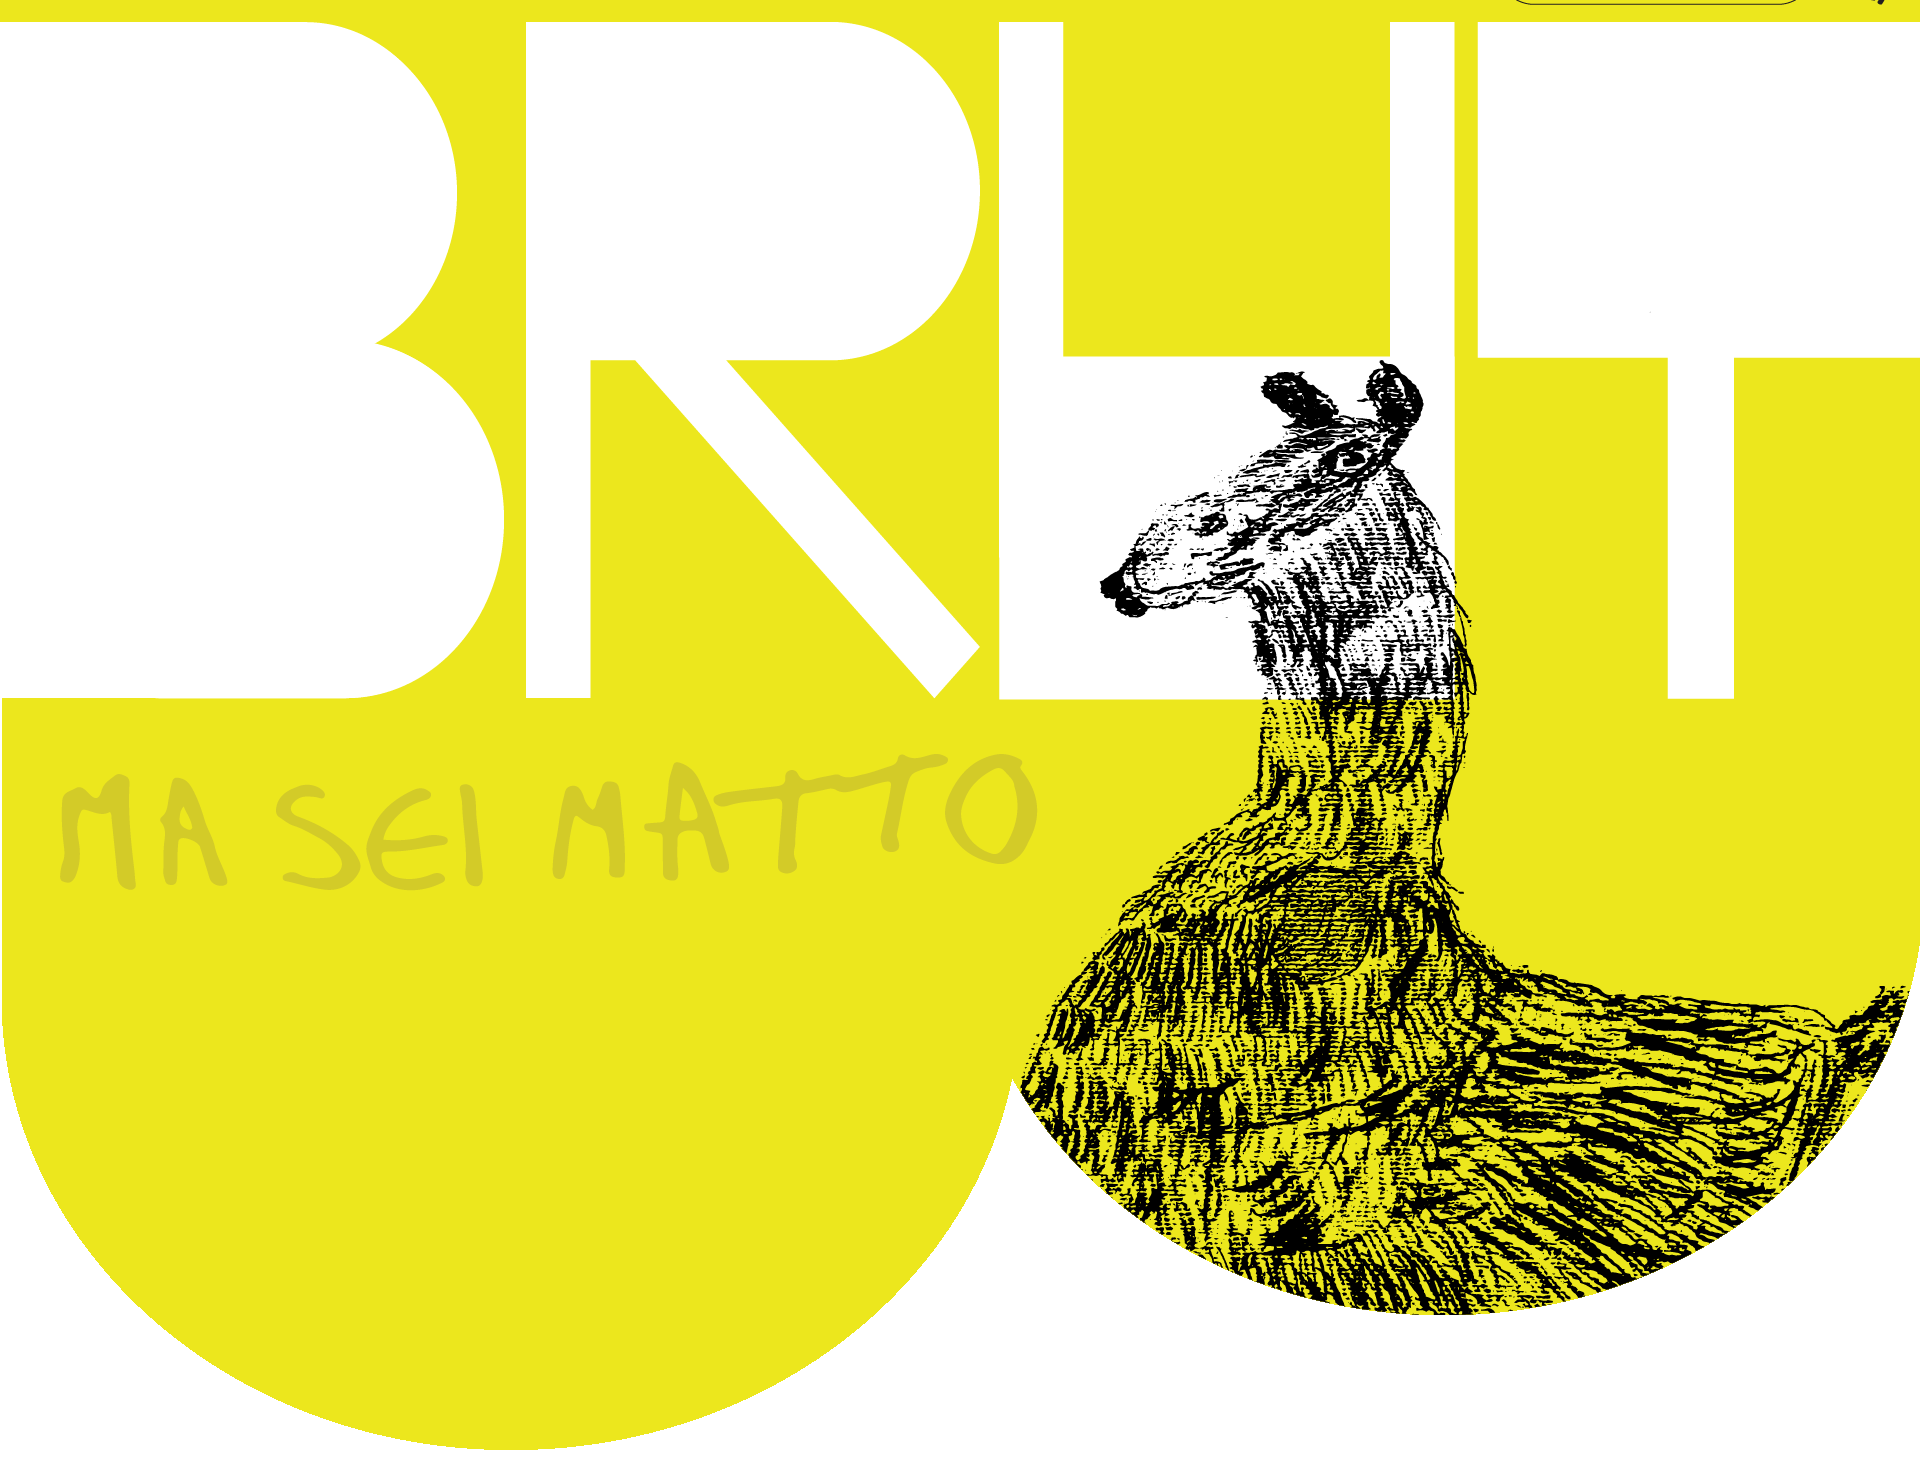
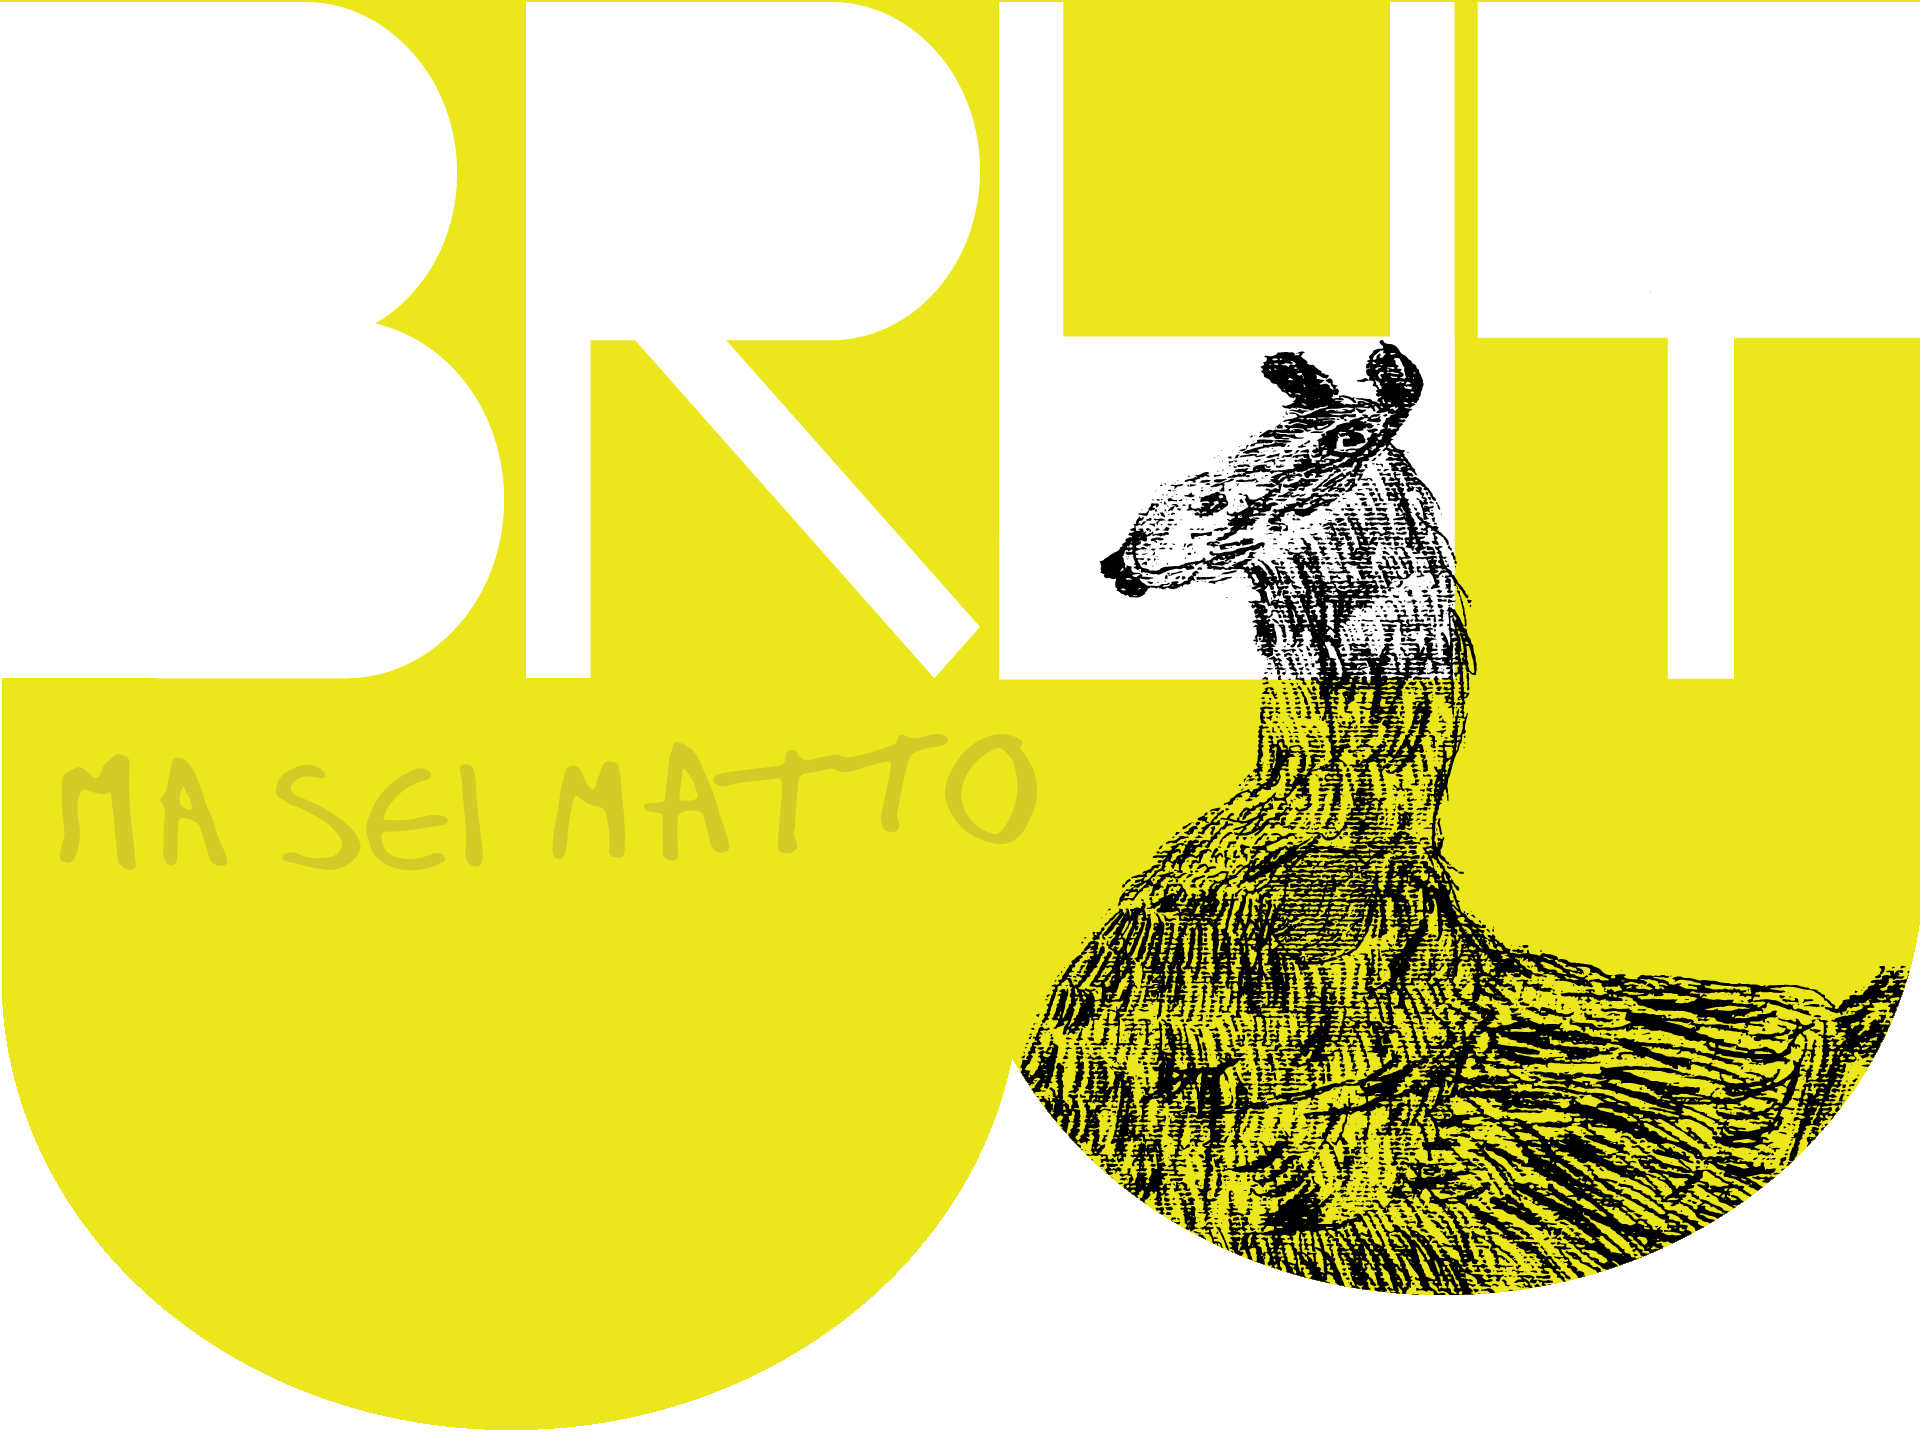
Fix home hero header remnant + half-cut flower bullets
- home_hero.png: re-crop below the mockup's own header (was including the
  bottom of the CONTATTACI pill + fist doodle, which ghosted under the real header)
- bullet_flower.png: re-extract the FULL flower sunburst (previous crop grabbed
  only a right-edge sliver, so bullets rendered cut in half); make .bullet square

Claude-Session: https://claude.ai/code/session_01MQfLeumYifWnwYtJr6nAFq

diff --git a/css/style.css b/css/style.css
@@ -111,7 +111,7 @@ ul{list-style:none}
 .linklist li{display:flex;align-items:center;gap:.5em;margin-bottom:.45em}
 .linklist a{font-weight:700;text-decoration:underline;text-underline-offset:3px}
 .linklist a:hover{color:#9c9a13}
-.bullet{width:.5em;height:1.15em;border:none;border-radius:0;flex:0 0 auto;background:url("../assets/img/bullet_flower.png") center/contain no-repeat;align-self:flex-start;margin-top:.12em}
+.bullet{width:1em;height:1em;border:none;border-radius:0;flex:0 0 auto;background:url("../assets/img/bullet_flower.png") center/contain no-repeat;align-self:center}
 .insieme .split--center{position:relative}
 .insieme__media{display:block}
 .insieme__media .peacock{width:100%;max-width:52rem;margin-left:auto;display:block}
